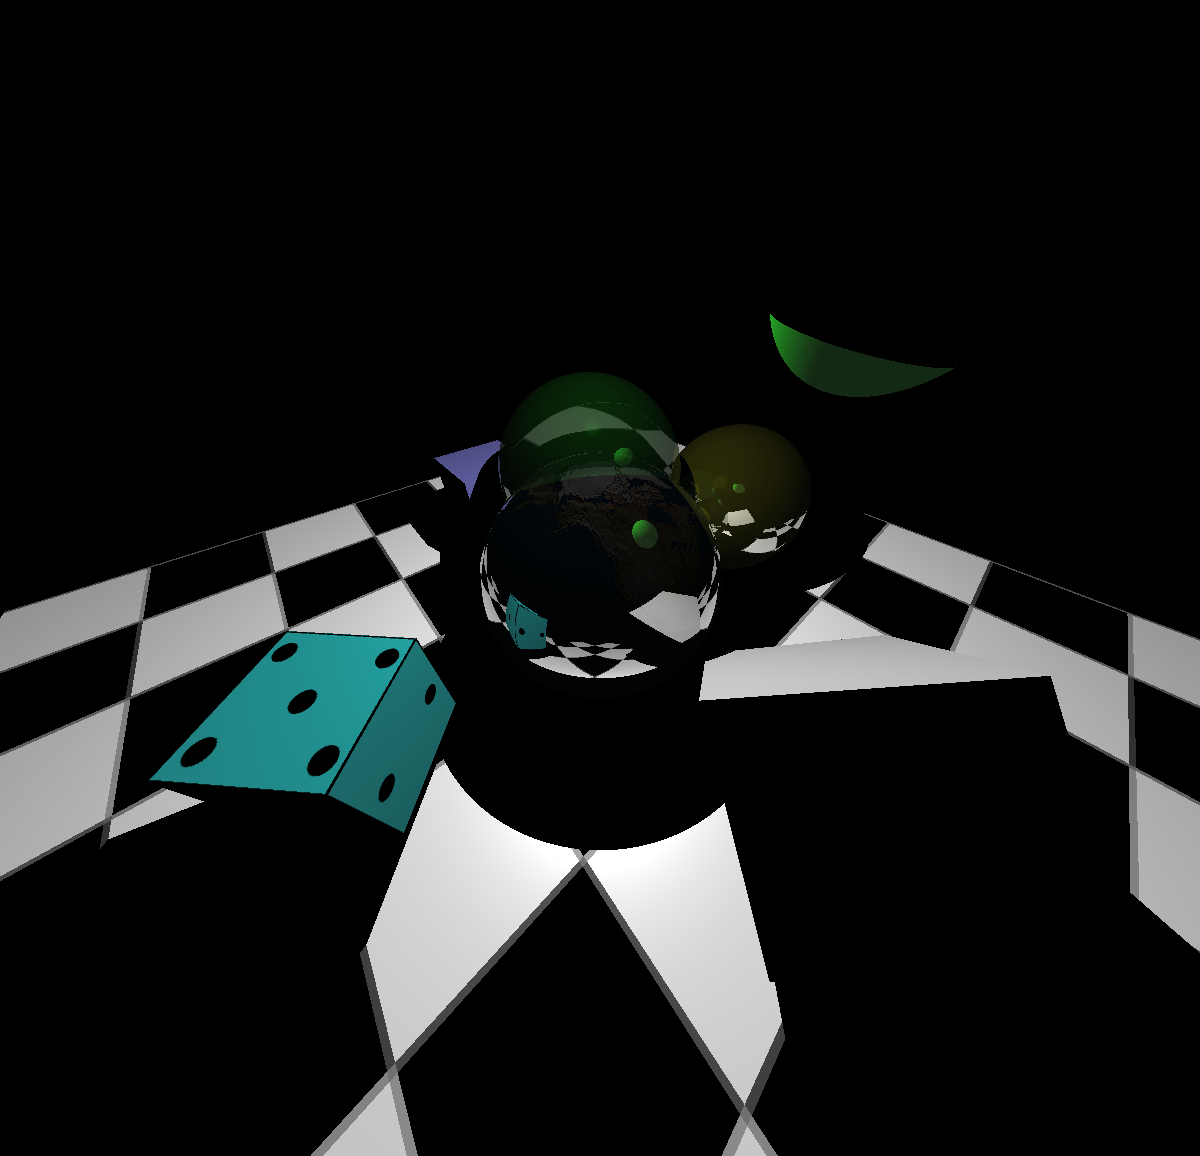
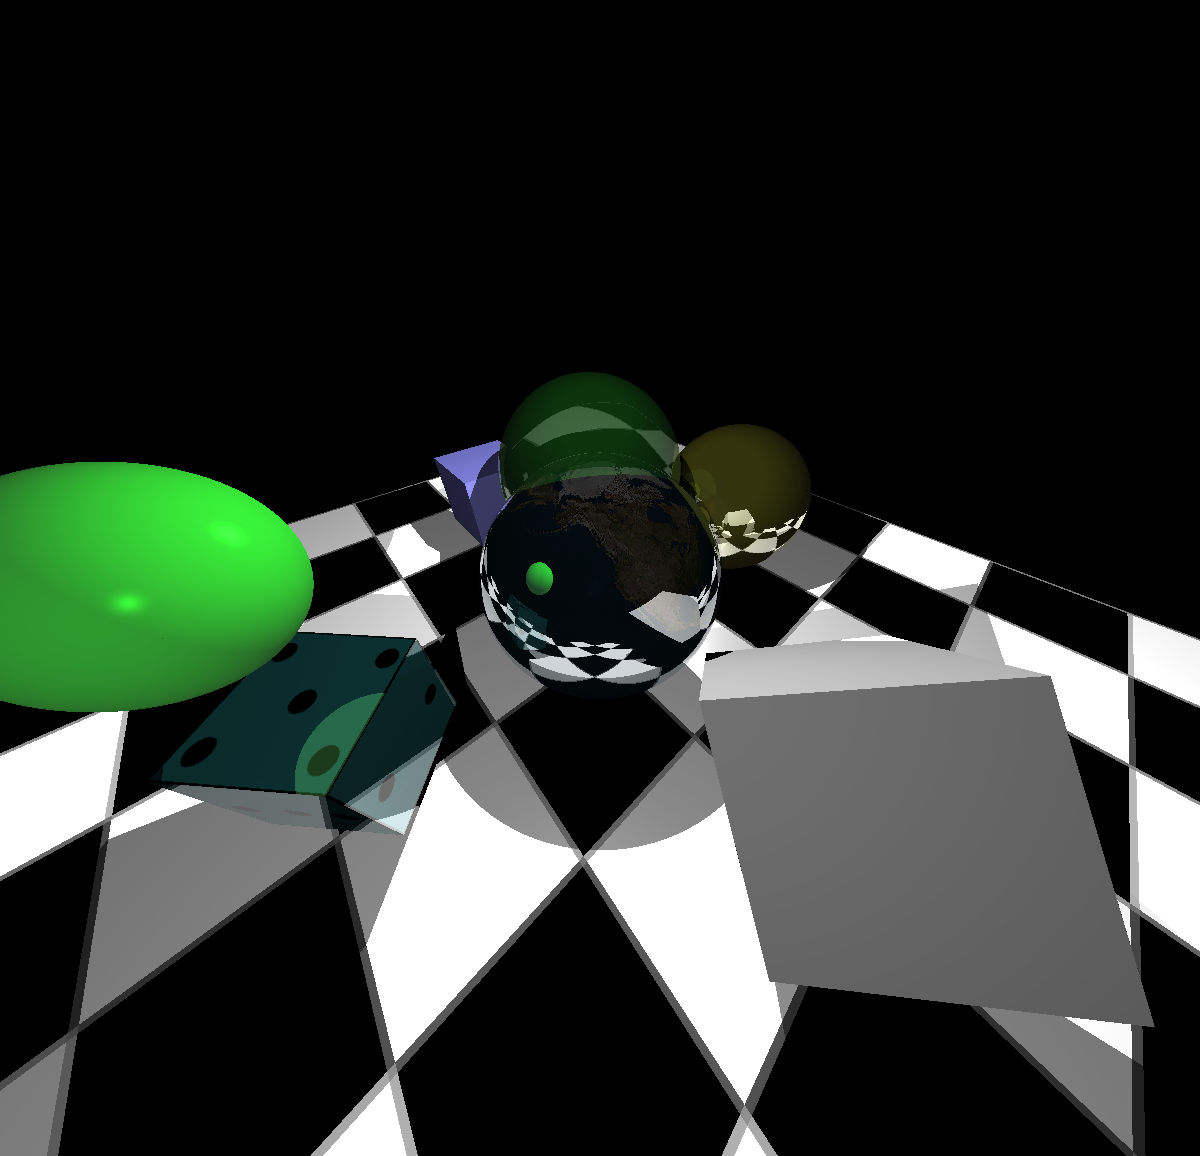
Refractions

diff --git a/extras/sgraph/Raytracer.java b/extras/sgraph/Raytracer.java
@@ -27,7 +27,7 @@ public class Raytracer {
     private INode root;
     private HashMap<String,TextureImage> textures = new HashMap<>();
     private List<Light> lights = new ArrayList<>();
-    private int MAX_RECURSION_BOUNCE = 5;
+    private int MAX_RECURSION_BOUNCE = 8;
     private float REFRACTIVE_INDEX_AIR = 1.0f;
     private ColorUtil colorUtil = new ColorUtil();
     private Phong phong = new Phong();
@@ -128,7 +128,7 @@ public class Raytracer {
                 if (hitRecord.getMaterial().getTransparency() > 0) {
                     Ray refractionRay = refractionRay(ray, hitRecord, refractiveIndex);
                     transparency = hitRecord.getMaterial().getTransparency();
-                    refractionColor = raycast(refractionRay, modelView, bounce, hitRecord.getMaterial().getRefractiveIndex());
+                    refractionColor = raycast(refractionRay, modelView, bounce + 1, hitRecord.getMaterial().getRefractiveIndex());
                 }
 
             }
